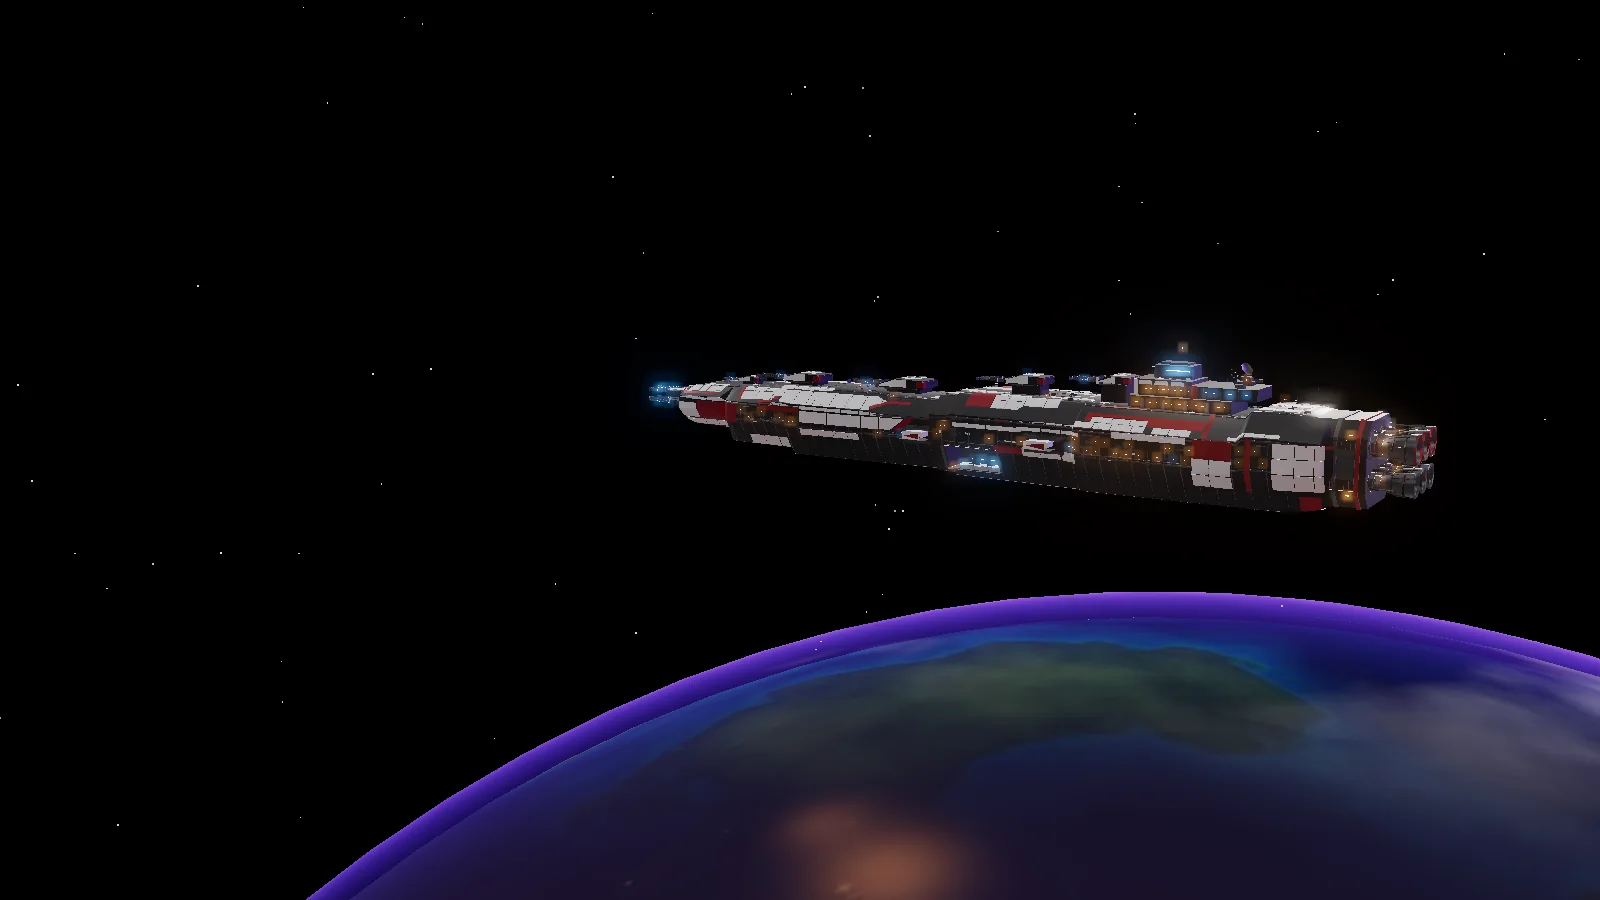
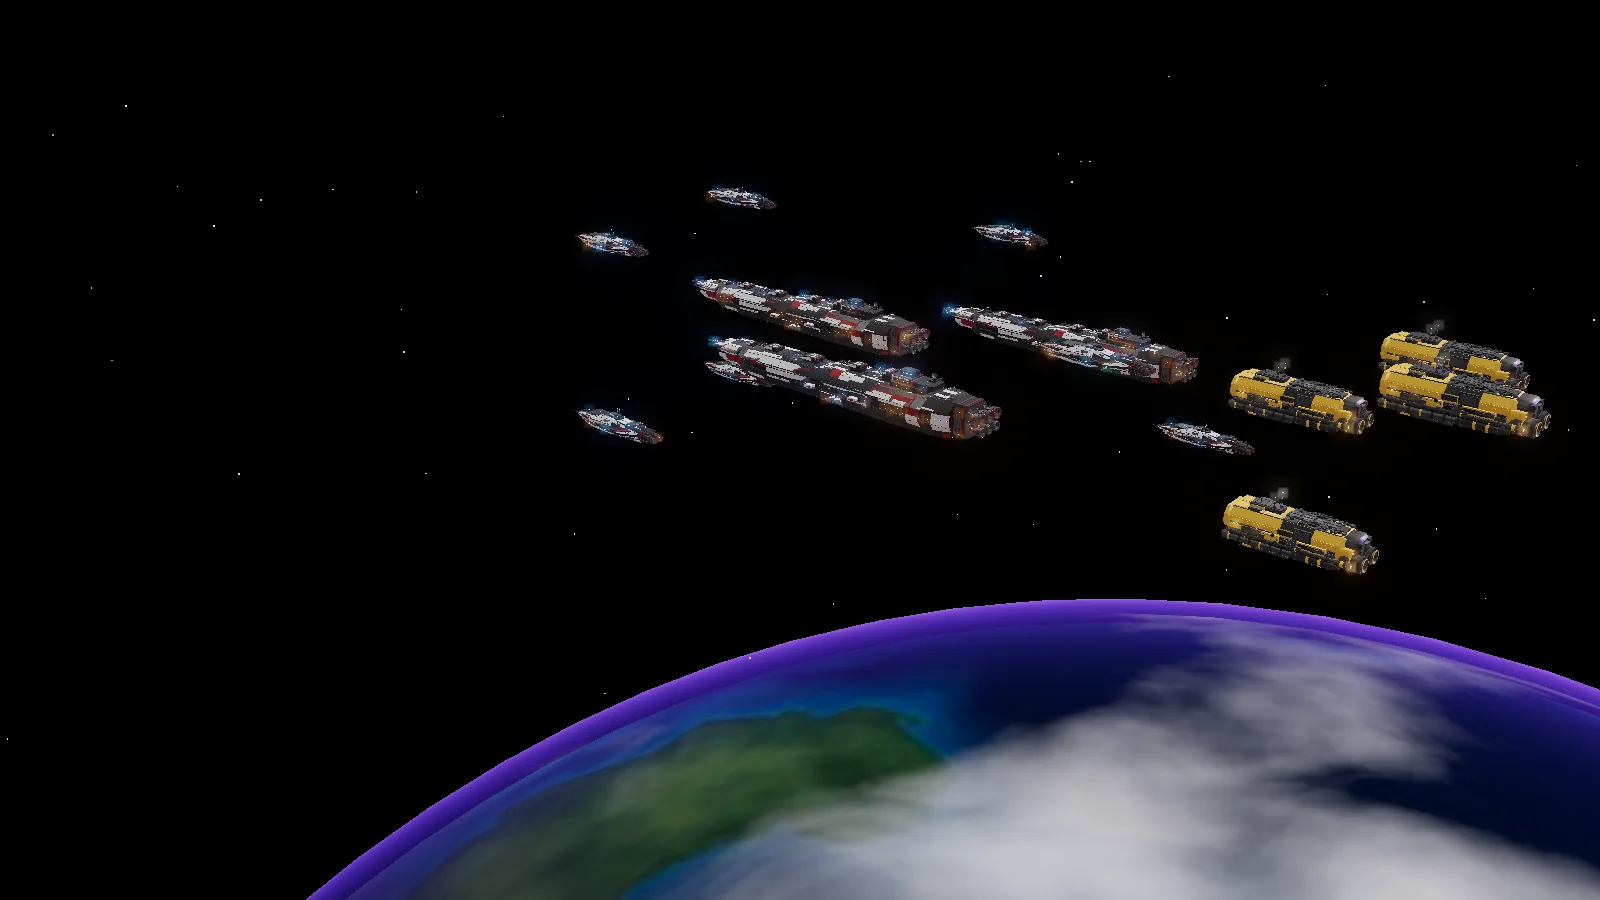
Site : premier écran avec une flotte entière (cuirassés, frégates, tankers) en vue lointaine au-dessus de Kerath-VII
Claude-Session: https://claude.ai/code/session_01JwVMoGh2JMgLgKoMzT7wbx

diff --git a/site/index.html b/site/index.html
@@ -358,7 +358,7 @@ footer .base{font:500 12px/1 var(--f-data);letter-spacing:.18em;color:var(--mute
   <div class="stage" id="hero-stage">
     <picture>
       <source media="(max-width: 820px)" srcset="img/hero_m.webp">
-      <img class="poster" src="img/hero.webp" alt="Le cuirassé KV-01 au-dessus de l'horizon de la planète Kerath-VII" width="1600" height="900">
+      <img class="poster" src="img/hero.webp" alt="Une flotte de cuirassés, frégates et tankers en orbite au-dessus de la planète Kerath-VII" width="1600" height="900">
     </picture>
   </div>
   <div class="wrap">
@@ -372,7 +372,7 @@ footer .base{font:500 12px/1 var(--f-data);letter-spacing:.18em;color:var(--mute
     </div>
     <p class="reassure"><span>Dans ton navigateur</span><span>Installable sur ton téléphone</span><span>Partie sauvegardée</span></p>
   </div>
-  <p class="cap scene-cap">Le cuirassé KV-01 au-dessus de Kerath-VII. Mise en scène avec les modèles du jeu.</p>
+  <p class="cap scene-cap">Une flotte en orbite au-dessus de Kerath-VII. Mise en scène avec les modèles du jeu.</p>
 </header>
 
 <main>
@@ -858,6 +858,7 @@ class Viewer {
     const t = performance.now() / 1000;
     if (this.o.sway) { this.pivot.rotation.y = Math.sin(t * 0.18) * this.o.sway; this.pivot.position.y = Math.sin(t * 0.35) * this.radius * 0.015; }
     if (this.planet) this.planet.rotation.y = t * 0.004;
+    if (this.fleet && this.o.sway) this.fleet.children.forEach(h => { h.position.y += Math.sin(t * 0.5 + h.userData.bob) * 0.0015 * this.radius / 40; });
     if (this.clouds) this.clouds.rotation.y = t * 0.006;
     this.controls.update(); this.composer.render();
   }
@@ -872,7 +873,7 @@ class Viewer {
     const mat = new THREE.ShaderMaterial({
       uniforms: { uDay: { value: alb }, uNight: { value: lit }, uSun: sunDir },
       vertexShader: 'varying vec2 vUv; varying vec3 vWN; void main(){ vUv = uv; vWN = normalize(mat3(modelMatrix)*normal); gl_Position = projectionMatrix*modelViewMatrix*vec4(position,1.0); }',
-      fragmentShader: 'uniform sampler2D uDay; uniform sampler2D uNight; uniform vec3 uSun; varying vec2 vUv; varying vec3 vWN; void main(){ float d = dot(normalize(vWN), uSun); float day = smoothstep(-0.08, 0.35, d); vec3 c = texture2D(uDay, vUv).rgb * (0.02 + 1.15*day); float night = smoothstep(0.02, -0.22, d); c += texture2D(uNight, vUv).rgb * vec3(1.0,0.72,0.5) * night * 1.4; c += vec3(0.5,0.33,0.85) * 0.05 * (1.0-day); gl_FragColor = vec4(c, 1.0); }'
+      fragmentShader: 'uniform sampler2D uDay; uniform sampler2D uNight; uniform vec3 uSun; varying vec2 vUv; varying vec3 vWN; void main(){ float d = dot(normalize(vWN), uSun); float day = smoothstep(-0.08, 0.35, d); vec3 c = texture2D(uDay, vUv).rgb * (0.02 + 1.15*day); float night = smoothstep(0.02, -0.22, d); c += texture2D(uNight, vUv).rgb * vec3(1.0,0.72,0.5) * night * 0.55; c += vec3(0.5,0.33,0.85) * 0.05 * (1.0-day); gl_FragColor = vec4(c, 1.0); }'
     });
     mat.toneMapped = true;
     const planet = new THREE.Mesh(g, mat);
@@ -950,6 +951,48 @@ class Viewer {
     this.host.classList.add('is-ready');
     return m;
   }
+  // Flotte : plusieurs modèles en formation. items = [{ url, len, pos:[x,y,z], yaw }], len = longueur voulue (axe z du modèle)
+  async showFleet(items, view) {
+    const token = (this._tok = Symbol());
+    this.host.classList.add('is-loading');
+    let srcs;
+    try { srcs = await Promise.all([...new Set(items.map(i => i.url))].map(u => loadGLB(u).then(s => [u, s]))); }
+    catch (e) { this.host.classList.remove('is-loading'); this.host.classList.add('is-error'); throw e; }
+    if (token !== this._tok) return;
+    const byUrl = new Map(srcs);
+    if (view) this.o.view = view;
+    this.pivot.clear();
+    const fleet = new THREE.Group();
+    const norm = new Map();
+    for (const [u, src] of byUrl) {
+      const box = new THREE.Box3().setFromObject(src);
+      norm.set(u, { ctr: box.getCenter(new THREE.Vector3()), len: box.max.z - box.min.z });
+    }
+    for (const it of items) {
+      const n = norm.get(it.url);
+      const m = byUrl.get(it.url).clone(true);
+      const lights = []; m.traverse(o => { if (o.isLight) lights.push(o); });
+      lights.forEach(l => l.parent && l.parent.remove(l));
+      m.position.sub(n.ctr);
+      const holder = new THREE.Group(); holder.add(m);
+      holder.scale.setScalar(it.len / n.len);
+      holder.position.set(...it.pos);
+      holder.rotation.y = it.yaw || 0;
+      holder.userData.bob = Math.random() * Math.PI * 2;
+      fleet.add(holder);
+    }
+    const box = new THREE.Box3().setFromObject(fleet);
+    fleet.position.sub(box.getCenter(new THREE.Vector3()));
+    this.pivot.add(fleet);
+    this.fleet = fleet;
+    this.model = fleet;
+    this.radius = box.getBoundingSphere(new THREE.Sphere()).radius;
+    this.place();
+    this.host.classList.remove('is-loading', 'is-error');
+    this.frame();
+    this.host.classList.add('is-ready');
+    return fleet;
+  }
   zoomBy(k) { const c = this.controls, off = this.camera.position.clone().sub(c.target); off.multiplyScalar(k); const l = off.length(); if (l < c.minDistance || l > c.maxDistance) return; this.camera.position.copy(c.target).add(off); }
 }
 
@@ -993,11 +1036,12 @@ const stage = document.getElementById('hero-stage');
 if (webgl) {
   try {
     const wide = matchMedia('(min-width: 821px)').matches;
-    const hv = new Viewer(stage, { rotate: 0, sway: calm ? 0 : 0.09, bloom: 0.5, view: [1.15, 0.22, -0.75], fit: wide ? 0.82 : 1.0, offsetX: wide ? -0.78 : 0,
-      planet: { size: 8, x: wide ? 2.2 : 0.6, y: -9.0, z: 6 } });
+    const FLEET = [{"url": "3d/sb_kv01_lod.glb", "len": 10, "pos": [0, 0, 0]}, {"url": "3d/sb_kv01_lod.glb", "len": 10, "pos": [-7, -1.5, -6]}, {"url": "3d/sb_kv01_lod.glb", "len": 10, "pos": [6.5, 1, -7]}, {"url": "3d/sb_sr01_lod.glb", "len": 3.4, "pos": [-3.5, 2.2, 6]}, {"url": "3d/sb_sr01_lod.glb", "len": 3.4, "pos": [3.5, 2, 5.5]}, {"url": "3d/sb_sr01_lod.glb", "len": 3.4, "pos": [-11, 0.5, -1]}, {"url": "3d/sb_sr01_lod.glb", "len": 3.4, "pos": [10.5, -0.5, -2]}, {"url": "3d/sb_sr01_lod.glb", "len": 3.4, "pos": [0, -3, 3]}, {"url": "3d/sb_sr01_lod.glb", "len": 3.4, "pos": [-4, -2.5, -13]}, {"url": "3d/sb_sr01_lod.glb", "len": 3.4, "pos": [5, 2.8, -14]}, {"url": "3d/sb_tk07_lod.glb", "len": 3.8, "pos": [-1.5, 0.5, -17]}, {"url": "3d/sb_tk07_lod.glb", "len": 3.8, "pos": [2.5, -1.5, -19]}, {"url": "3d/sb_tk07_lod.glb", "len": 3.8, "pos": [-4.5, 1.5, -20]}, {"url": "3d/sb_tk07_lod.glb", "len": 3.8, "pos": [1, 2.5, -22]}];
+    const hv = new Viewer(stage, { rotate: 0, sway: calm ? 0 : 0.035, bloom: 0.5, view: [1.0, 0.55, -0.85], fit: wide ? 0.58 : 0.78, offsetX: wide ? -0.5 : 0.08,
+      planet: wide ? { size: 5, x: 1.3, y: -5.7, z: 4, sx: 0.6, sy: 0.5, sz: 0.25 } : { size: 5, x: 0.2, y: -6.4, z: 4, sx: 0.6, sy: 0.5, sz: 0.25 } });
     hv.controls.enabled = false; hv.renderer.domElement.style.touchAction = 'auto';
     hv.addPlanet({ albedo: '3d/kerath_albedo.jpg', lights: '3d/kerath_lights.jpg', clouds: '3d/kerath_clouds.jpg' });
-    hv.show('3d/sb_kv01_lod.glb').then(() => setTimeout(() => stage.classList.add('is-ready'), 400)).catch(() => {});
+    hv.showFleet(FLEET).then(() => setTimeout(() => stage.classList.add('is-ready'), 400)).catch(() => {});
     stage.classList.remove('is-ready');
   } catch (e) {}
 }

diff --git a/site/_src/viewer.js b/site/_src/viewer.js
@@ -90,6 +90,7 @@ export class Viewer {
     const t = performance.now() / 1000;
     if (this.o.sway) { this.pivot.rotation.y = Math.sin(t * 0.18) * this.o.sway; this.pivot.position.y = Math.sin(t * 0.35) * this.radius * 0.015; }
     if (this.planet) this.planet.rotation.y = t * 0.004;
+    if (this.fleet && this.o.sway) this.fleet.children.forEach(h => { h.position.y += Math.sin(t * 0.5 + h.userData.bob) * 0.0015 * this.radius / 40; });
     if (this.clouds) this.clouds.rotation.y = t * 0.006;
     this.controls.update(); this.composer.render();
   }
@@ -104,7 +105,7 @@ export class Viewer {
     const mat = new THREE.ShaderMaterial({
       uniforms: { uDay: { value: alb }, uNight: { value: lit }, uSun: sunDir },
       vertexShader: 'varying vec2 vUv; varying vec3 vWN; void main(){ vUv = uv; vWN = normalize(mat3(modelMatrix)*normal); gl_Position = projectionMatrix*modelViewMatrix*vec4(position,1.0); }',
-      fragmentShader: 'uniform sampler2D uDay; uniform sampler2D uNight; uniform vec3 uSun; varying vec2 vUv; varying vec3 vWN; void main(){ float d = dot(normalize(vWN), uSun); float day = smoothstep(-0.08, 0.35, d); vec3 c = texture2D(uDay, vUv).rgb * (0.02 + 1.15*day); float night = smoothstep(0.02, -0.22, d); c += texture2D(uNight, vUv).rgb * vec3(1.0,0.72,0.5) * night * 1.4; c += vec3(0.5,0.33,0.85) * 0.05 * (1.0-day); gl_FragColor = vec4(c, 1.0); }'
+      fragmentShader: 'uniform sampler2D uDay; uniform sampler2D uNight; uniform vec3 uSun; varying vec2 vUv; varying vec3 vWN; void main(){ float d = dot(normalize(vWN), uSun); float day = smoothstep(-0.08, 0.35, d); vec3 c = texture2D(uDay, vUv).rgb * (0.02 + 1.15*day); float night = smoothstep(0.02, -0.22, d); c += texture2D(uNight, vUv).rgb * vec3(1.0,0.72,0.5) * night * 0.55; c += vec3(0.5,0.33,0.85) * 0.05 * (1.0-day); gl_FragColor = vec4(c, 1.0); }'
     });
     mat.toneMapped = true;
     const planet = new THREE.Mesh(g, mat);
@@ -181,6 +182,48 @@ export class Viewer {
     this.frame();
     this.host.classList.add('is-ready');
     return m;
+  }
+  // Flotte : plusieurs modèles en formation. items = [{ url, len, pos:[x,y,z], yaw }], len = longueur voulue (axe z du modèle)
+  async showFleet(items, view) {
+    const token = (this._tok = Symbol());
+    this.host.classList.add('is-loading');
+    let srcs;
+    try { srcs = await Promise.all([...new Set(items.map(i => i.url))].map(u => loadGLB(u).then(s => [u, s]))); }
+    catch (e) { this.host.classList.remove('is-loading'); this.host.classList.add('is-error'); throw e; }
+    if (token !== this._tok) return;
+    const byUrl = new Map(srcs);
+    if (view) this.o.view = view;
+    this.pivot.clear();
+    const fleet = new THREE.Group();
+    const norm = new Map();
+    for (const [u, src] of byUrl) {
+      const box = new THREE.Box3().setFromObject(src);
+      norm.set(u, { ctr: box.getCenter(new THREE.Vector3()), len: box.max.z - box.min.z });
+    }
+    for (const it of items) {
+      const n = norm.get(it.url);
+      const m = byUrl.get(it.url).clone(true);
+      const lights = []; m.traverse(o => { if (o.isLight) lights.push(o); });
+      lights.forEach(l => l.parent && l.parent.remove(l));
+      m.position.sub(n.ctr);
+      const holder = new THREE.Group(); holder.add(m);
+      holder.scale.setScalar(it.len / n.len);
+      holder.position.set(...it.pos);
+      holder.rotation.y = it.yaw || 0;
+      holder.userData.bob = Math.random() * Math.PI * 2;
+      fleet.add(holder);
+    }
+    const box = new THREE.Box3().setFromObject(fleet);
+    fleet.position.sub(box.getCenter(new THREE.Vector3()));
+    this.pivot.add(fleet);
+    this.fleet = fleet;
+    this.model = fleet;
+    this.radius = box.getBoundingSphere(new THREE.Sphere()).radius;
+    this.place();
+    this.host.classList.remove('is-loading', 'is-error');
+    this.frame();
+    this.host.classList.add('is-ready');
+    return fleet;
   }
   zoomBy(k) { const c = this.controls, off = this.camera.position.clone().sub(c.target); off.multiplyScalar(k); const l = off.length(); if (l < c.minDistance || l > c.maxDistance) return; this.camera.position.copy(c.target).add(off); }
 }

diff --git a/site/_src/index.src.html b/site/_src/index.src.html
@@ -350,7 +350,7 @@ footer .base{font:500 12px/1 var(--f-data);letter-spacing:.18em;color:var(--mute
   <div class="stage" id="hero-stage">
     <picture>
       <source media="(max-width: 820px)" srcset="img/hero_m.webp">
-      <img class="poster" src="img/hero.webp" alt="Le cuirassé KV-01 au-dessus de l'horizon de la planète Kerath-VII" width="1600" height="900">
+      <img class="poster" src="img/hero.webp" alt="Une flotte de cuirassés, frégates et tankers en orbite au-dessus de la planète Kerath-VII" width="1600" height="900">
     </picture>
   </div>
   <div class="wrap">
@@ -364,7 +364,7 @@ footer .base{font:500 12px/1 var(--f-data);letter-spacing:.18em;color:var(--mute
     </div>
     <p class="reassure"><span>Dans ton navigateur</span><span>Installable sur ton téléphone</span><span>Partie sauvegardée</span></p>
   </div>
-  <p class="cap scene-cap">Le cuirassé KV-01 au-dessus de Kerath-VII. Mise en scène avec les modèles du jeu.</p>
+  <p class="cap scene-cap">Une flotte en orbite au-dessus de Kerath-VII. Mise en scène avec les modèles du jeu.</p>
 </header>
 
 <main>
@@ -799,11 +799,12 @@ const stage = document.getElementById('hero-stage');
 if (webgl) {
   try {
     const wide = matchMedia('(min-width: 821px)').matches;
-    const hv = new Viewer(stage, { rotate: 0, sway: calm ? 0 : 0.09, bloom: 0.5, view: [1.15, 0.22, -0.75], fit: wide ? 0.82 : 1.0, offsetX: wide ? -0.78 : 0,
-      planet: { size: 8, x: wide ? 2.2 : 0.6, y: -9.0, z: 6 } });
+    const FLEET = [{"url": "3d/sb_kv01_lod.glb", "len": 10, "pos": [0, 0, 0]}, {"url": "3d/sb_kv01_lod.glb", "len": 10, "pos": [-7, -1.5, -6]}, {"url": "3d/sb_kv01_lod.glb", "len": 10, "pos": [6.5, 1, -7]}, {"url": "3d/sb_sr01_lod.glb", "len": 3.4, "pos": [-3.5, 2.2, 6]}, {"url": "3d/sb_sr01_lod.glb", "len": 3.4, "pos": [3.5, 2, 5.5]}, {"url": "3d/sb_sr01_lod.glb", "len": 3.4, "pos": [-11, 0.5, -1]}, {"url": "3d/sb_sr01_lod.glb", "len": 3.4, "pos": [10.5, -0.5, -2]}, {"url": "3d/sb_sr01_lod.glb", "len": 3.4, "pos": [0, -3, 3]}, {"url": "3d/sb_sr01_lod.glb", "len": 3.4, "pos": [-4, -2.5, -13]}, {"url": "3d/sb_sr01_lod.glb", "len": 3.4, "pos": [5, 2.8, -14]}, {"url": "3d/sb_tk07_lod.glb", "len": 3.8, "pos": [-1.5, 0.5, -17]}, {"url": "3d/sb_tk07_lod.glb", "len": 3.8, "pos": [2.5, -1.5, -19]}, {"url": "3d/sb_tk07_lod.glb", "len": 3.8, "pos": [-4.5, 1.5, -20]}, {"url": "3d/sb_tk07_lod.glb", "len": 3.8, "pos": [1, 2.5, -22]}];
+    const hv = new Viewer(stage, { rotate: 0, sway: calm ? 0 : 0.035, bloom: 0.5, view: [1.0, 0.55, -0.85], fit: wide ? 0.58 : 0.78, offsetX: wide ? -0.5 : 0.08,
+      planet: wide ? { size: 5, x: 1.3, y: -5.7, z: 4, sx: 0.6, sy: 0.5, sz: 0.25 } : { size: 5, x: 0.2, y: -6.4, z: 4, sx: 0.6, sy: 0.5, sz: 0.25 } });
     hv.controls.enabled = false; hv.renderer.domElement.style.touchAction = 'auto';
     hv.addPlanet({ albedo: '3d/kerath_albedo.jpg', lights: '3d/kerath_lights.jpg', clouds: '3d/kerath_clouds.jpg' });
-    hv.show('3d/sb_kv01_lod.glb').then(() => setTimeout(() => stage.classList.add('is-ready'), 400)).catch(() => {});
+    hv.showFleet(FLEET).then(() => setTimeout(() => stage.classList.add('is-ready'), 400)).catch(() => {});
     stage.classList.remove('is-ready');
   } catch (e) {}
 }
